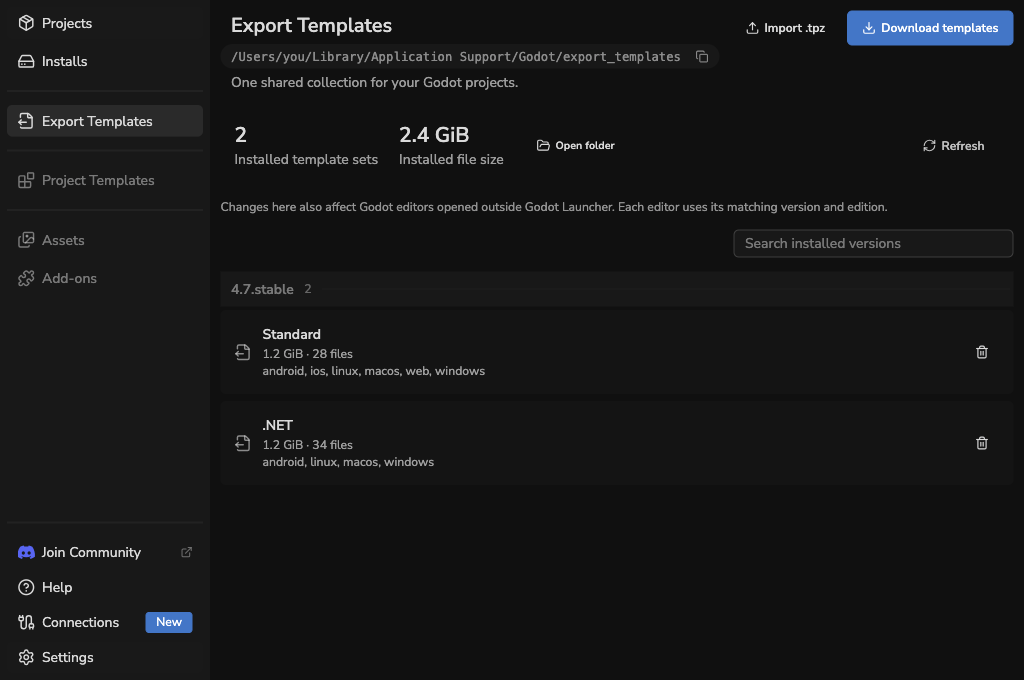
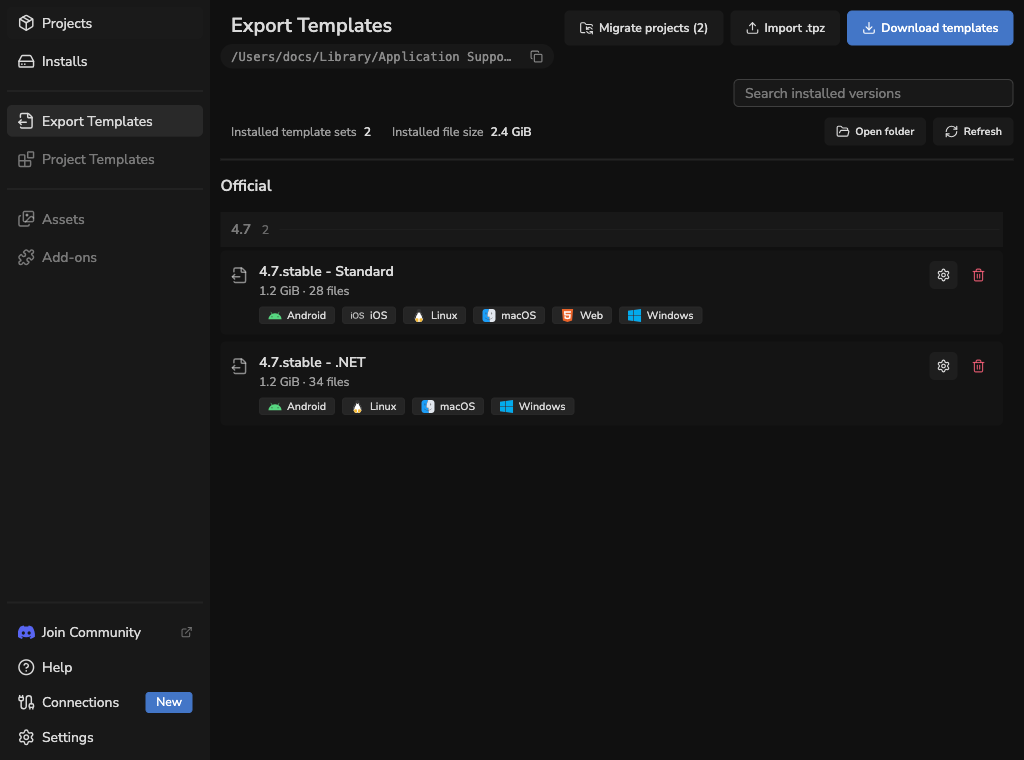
docs: update export templates and separate Next from 1.12

diff --git a/docusaurus.config.ts b/docusaurus.config.ts
@@ -133,9 +133,14 @@ const config: Config = {
           path: "docs",
           routeBasePath: "/",
           sidebarPath: "./sidebars.ts",
-          includeCurrentVersion: false,
+          includeCurrentVersion: true,
           lastVersion: "1.12",
           versions: {
+            current: {
+              label: "Next",
+              path: "next",
+              banner: "unreleased",
+            },
             "1.12": {
               label: "1.12",
               banner: "none",

diff --git a/docs/reference/storage-paths.md b/docs/reference/storage-paths.md
@@ -27,17 +27,47 @@ You can change the project and editor install locations from [Godot Launcher Set
 
 ## Shared export templates
 
-Official project editors use a shared collection in Godot's normal per-user location:
+Official export templates use Godot's normal per-user location by default:
 
-| System | Template folder |
+| System | Default template folder |
 | --- | --- |
 | Windows | `%APPDATA%\Godot\export_templates` |
 | macOS | `~/Library/Application Support/Godot/export_templates` |
 | Linux | `$XDG_DATA_HOME/godot/export_templates`, or `~/.local/share/godot/export_templates` when `XDG_DATA_HOME` is unset or is not absolute |
 
-Each set has its full Godot identity, such as `4.7.stable` or `4.7.stable.mono`. The per-project `editor_data/export_templates` folder points to this collection using a directory link, or a junction on Windows. Other `editor_data` contents remain separate.
+Each collection uses its full Godot identity, such as `4.7.stable` or `4.7.stable.mono`. It can contain a selection of template files rather than every supported platform.
 
-Use [Shared Export Templates](../editors/export-templates.mdx) to download, import, connect existing local templates or remove sets. Changing the editor install location does not relocate the shared collection.
+Change the physical location from **Settings > Export Templates**. After a move, a directory link at Godot's default location points to the new storage folder. Windows uses directory junctions. Use **Move back to Godot's default location** to return relocated Official files.
+
+:::info Editor and template locations are separate
+
+Changing the editor install location does not move export templates. Use the template storage controls to move Official or imported files and update their connections.
+
+:::
+
+For projects using Official, `editor_data/export_templates` connects to the shared collection. For a selected imported build, it contains a version link to that build. Choices for other editor versions are remembered, but only the current editor's imported build is connected. Other `editor_data` contents remain separate.
+
+Some project environments also have `editor_data/launcher_export_templates/official` for their managed Official connection. Leave these connections under the launcher's control; use the migration review for existing local template files.
+
+See [Export Templates](../editors/export-templates.mdx) for downloads, migration, build selection and storage moves.
+
+## Imported export template library
+
+The default physical library location is `<home>/Godot/ExportTemplates`. You can change it independently of Official storage from **Settings > Export Templates**.
+
+Within the library, package files are stored under `imported/<version-and-edition>/<build-folder>`. For example, `imported/4.7.stable/Cloud Build` contains a named Standard build. Folder names are derived from build names and adjusted for supported filesystem names. Use **Open template folder** on the build to find its exact location.
+
+`imported-templates.json` in the library records build identities, names, versions and package files. Renaming changes the readable folder name; replacement keeps the build identity and the projects' selections.
+
+The launcher maintains a connection from `<home>/.gd-launcher/export-templates` to the physical library. If the default location cannot be set up, this configuration-folder location may be used instead. **Settings > Export Templates** shows the location in use.
+
+:::warning Manage packages through Godot Launcher
+
+Do not rename, move or delete library folders manually. Use **Rename**, **Replace TPZ**, **Delete imported build** or the storage **Move** action so saved project references and connections are updated. If files are missing, the build can appear as **Unavailable** in Project Settings.
+
+:::
+
+Project build choices are stored in `projects.json`. Selecting a build connects the project to the library files; it does not create a project-local copy.
 
 ## Config files
 
@@ -46,7 +76,8 @@ Godot Launcher stores small internal files in the config folder:
 | File | Purpose |
 | --- | --- |
 | `prefs.json` | User preferences such as paths, language, update settings, and launch behavior. |
-| `projects.json` | The local project list, including device-specific project organization and activity. |
+| `projects.json` | The local project list, including device-specific project organisation, activity and per-version export template choices. |
+| `template-storage.json` | Saved Official and imported template storage locations. |
 | `app-integrations.json` | Non-secret connection details used to show connected accounts, installations, and connection health. |
 | `app-integration-secrets.json` | Credentials encrypted with the operating system's secure credential storage. The launcher does not use this file when secure storage is unavailable. |
 | `editor-catalog.json` | Saved official editor catalog data used when a refresh is unavailable. |
@@ -69,6 +100,7 @@ Some project information belongs to one launcher installation and stays in the l
 - The selected external code editor, such as Visual Studio Code, VSCodium, or **None**.
 - The project's last-opened history used for recent-project ordering and tray quick launch.
 - Pin state and pinned-project order.
+- Per-version imported-build selections.
 
 These choices are not restored when you add the project on another computer.
 
